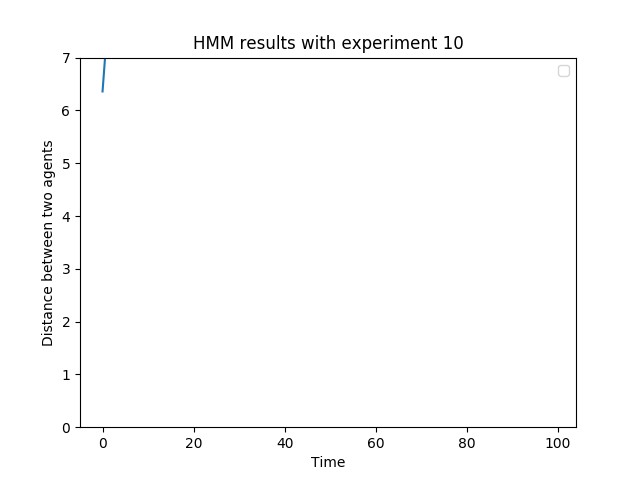
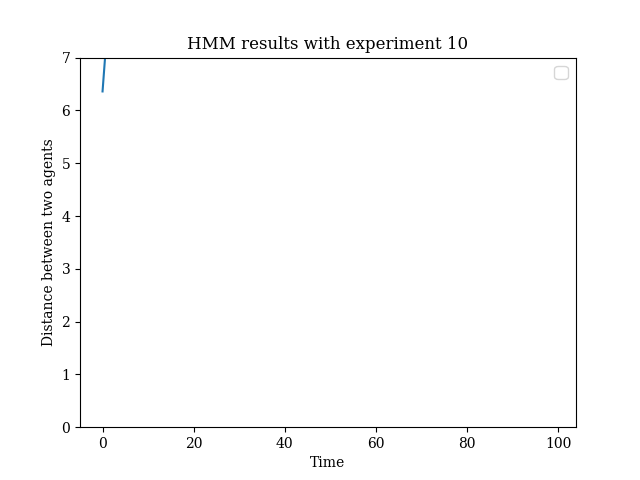
[added] transition matrix 5x5 for experiments 0-19

diff --git a/src/experiment.py b/src/experiment.py
@@ -1,5 +1,6 @@
 # Hidden parameter: euclidean distance
 import numpy as np
+import pickle
 from hmmlearn import hmm
 from sklearn.externals import joblib
 import matplotlib.pyplot as plt
@@ -43,6 +44,11 @@ def analyze_fake_data(a1, a2):
 #### Change data indices here
 # i = 0
 
+def normalized(a, axis=-1, order=2):
+    l2 = np.atleast_1d(np.linalg.norm(a, order, axis))
+    l2[l2==0] = 1
+    return a / np.expand_dims(l2, axis)
+
 
 def analyze_sim_data(): 
 	file_name = "../data/logs/obs_history_1"
@@ -64,11 +70,21 @@ def analyze_sim_data():
 		dists = utils.get_euclidean_dists(a1_pos, a2_pos)
 		dists = [[d] for d in dists]
 		print("Here are the distances between the two agents: {}".format(dists))
+
 		model = utils.get_distance_model(dists)
+		# log_prob = model._compute_log_likelihood(np.array([[0.0],[1.0],[2.0],[3.0],[4.0],[5.0],[6.0]]))
+		log_prob = model.score_samples(np.array([[0.0],[1.0],[2.0],[3.0],[4.0],[5.0],[6.0]]))
+		# print("Transition matrix for experiment {}: \n {} ".format(i, normalized(np.exp(log_prob[1]))))
+		nm = normalized(np.exp(log_prob[1]))
+
+		with open('e_{}.txt'.format(i), 'wb') as f:
+			pickle.dump(nm, f)
+
 
 		# sampling distance model
 		Xd,Zd = model.sample(100)
 		utils.plot(Xd,Zd, heading=i)
+		# plt.plot(Zd)
 
 analyze_sim_data()
 ###

diff --git a/src/utils.py b/src/utils.py
@@ -1,23 +1,28 @@
 # Hidden parameter: euclidean distance
 import numpy as np
 from hmmlearn import hmm
-import matplotlib.pyplot as plt
+# import matplotlib.pyplot as plt
+import pylab as plt
 import random
 
 DIRECTIONS = np.array([[0,1],[1,1],[1,0], [1,-1], [0,-1], [-1,-1],[-1,0], [-1,1]])
 np.random.seed(0)
+# plt.rc('text', usetex=True)
+plt.rc('font', family='serif')
+params = {'legend.fontsize': 12}
+plt.rcParams.update(params)
 
 ### PLOTTING DATA
 def plot(X,Z, heading=None):
 	plt.plot(X)
 	if heading: 
-		plt.title("HMM results with experiment {}".format(heading))
-	plt.xlabel("Time")
+		plt.title('HMM results with experiment {}'.format(heading))
+	plt.xlabel('Time')
 	plt.ylabel("Distance between two agents")
 	# plt.plot(Z)
 	plt.ylim((0,7))
 	plt.legend(loc='best')
-	filename = 'hmm_e_' + str(heading) + '.png' 
+	filename = '../hmm_results/hmm_e_' + str(heading) + '.png' 
 	plt.savefig(filename)
 	plt.clf()
 	# plt.show()
@@ -91,6 +96,7 @@ def get_direction_vector(directions):
 
 
 def get_distance_model(dists): 
+	
 	model = hmm.GaussianHMM(n_components=5, covariance_type="full")
 	model.fit(dists)
 	return model
